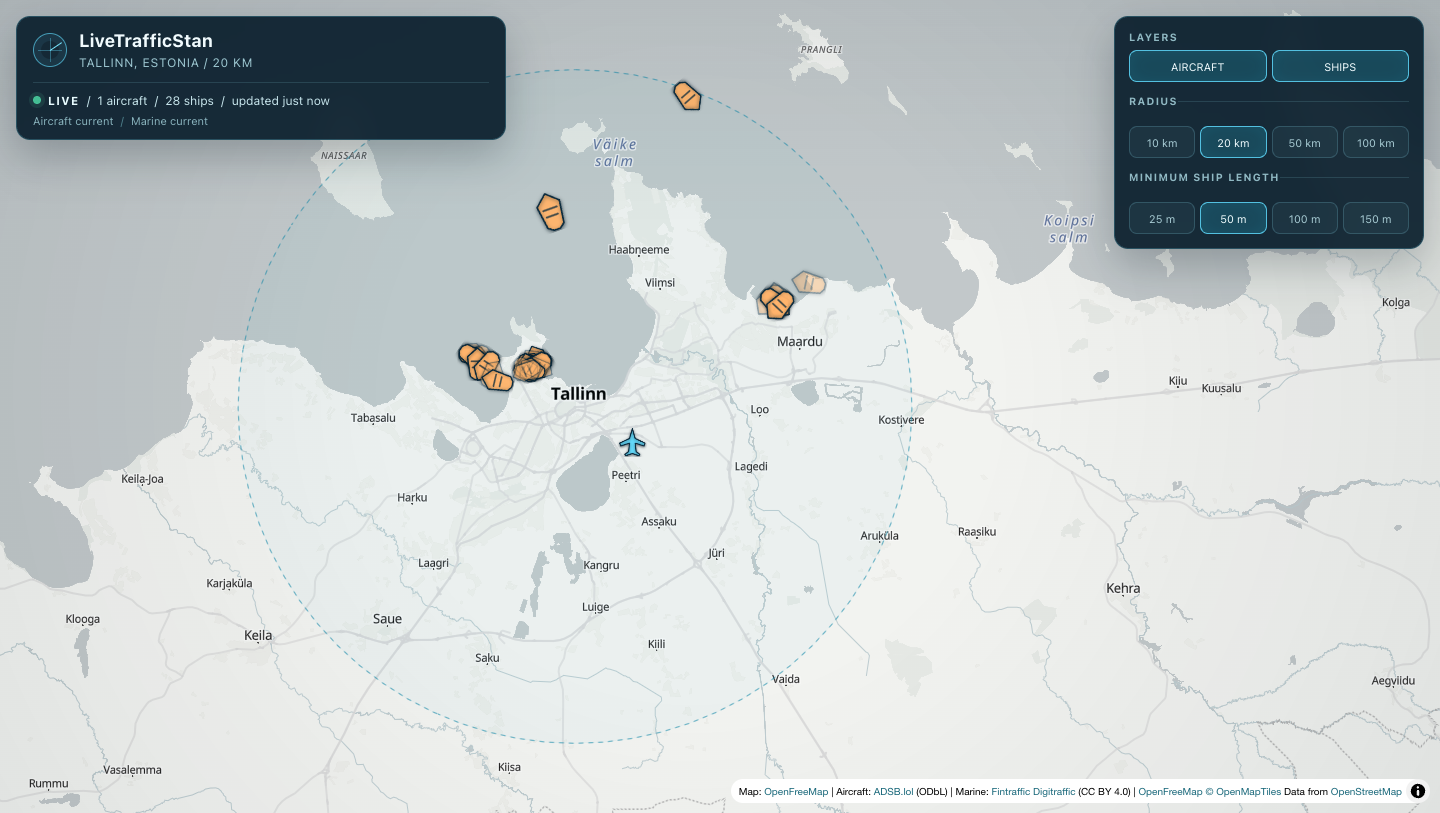
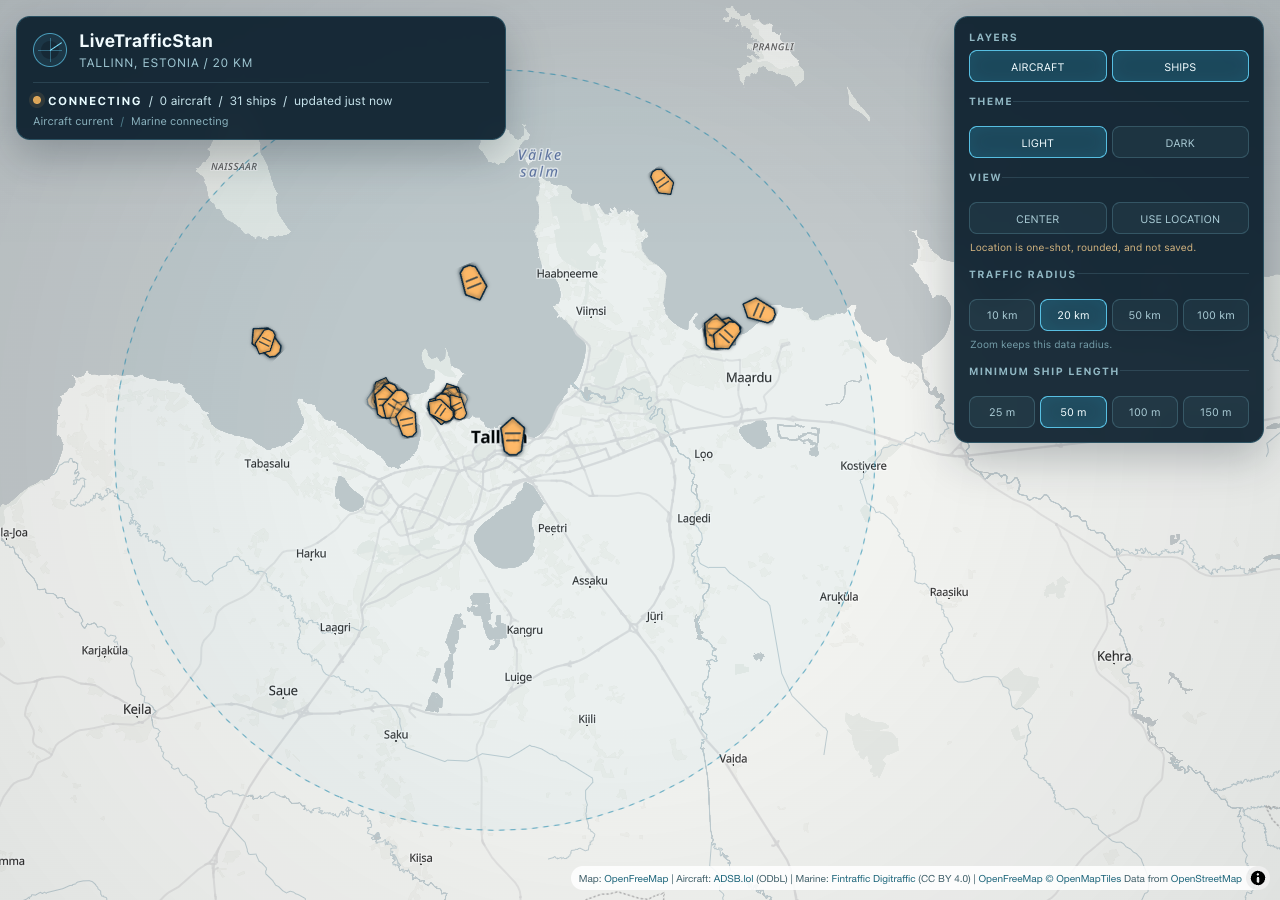
docs: describe V1.1 theme behavior

diff --git a/README.md b/README.md
@@ -15,6 +15,8 @@ single React application, without accounts, a database, or persistent tracking.
   REST initialization and MQTT over secure WebSockets.
 - OpenStreetMap-derived vector maps from
   [OpenFreeMap](https://openfreemap.org/), rendered with MapLibre GL JS.
+- Explicit Light and Dark themes that persist locally and switch the base map
+  without recreating MapLibre or resetting live traffic state.
 - Configurable 10, 20, 50, and 100 km Tallinn-centered radii.
 - Automatic traffic-area changes after a settled pan, while zoom remains
   visual and the selected radius remains the explicit coverage boundary.
@@ -79,6 +81,11 @@ separate state. Settled pans replace the latest desired provider center without
 adding aircraft requests beyond the 20-second cadence. Marine center changes
 reuse and refilter the global MQTT cache rather than reconnecting.
 
+Light/Dark changes use `map.setStyle` on that same MapLibre instance. An
+idempotent installer restores traffic images, sources, layers, current data,
+visibility, radius, and trail after each style load while preserving camera,
+selection, provider state, and connections.
+
 See [Architecture](docs/architecture.md) for component boundaries, data flow,
 failure isolation, rendering, and deployment details.
 
@@ -94,6 +101,7 @@ available for:
 | `VITE_CENTER_LONGITUDE` | `24.7536` |
 | `VITE_CENTER_LABEL` | `Tallinn, Estonia` |
 | `VITE_MAP_STYLE_URL` | `https://tiles.openfreemap.org/styles/positron` |
+| `VITE_MAP_DARK_STYLE_URL` | `https://tiles.openfreemap.org/styles/dark` |
 | `VITE_AIRCRAFT_ENDPOINT` | `/api/aircraft` |
 | `VITE_MARINE_REST_ENDPOINT` | `https://meri.digitraffic.fi` |
 | `VITE_MARINE_MQTT_ENDPOINT` | `wss://meri.digitraffic.fi:443/mqtt` |
@@ -141,6 +149,8 @@ provider attribution when implementing a deployment adapter.
   object.
 - Browser location is one-shot, rounded, and session-only; it is not continuous
   tracking and exact coordinates are not persisted.
+- Theme preference is limited to explicit Light/Dark selection; there is no
+  automatic system-theme mode.
 - V1.1 has no location search, route enrichment, playback, weather overlays,
   accounts, saved center preferences, or offline mode.
 

diff --git a/docs/configuration.md b/docs/configuration.md
@@ -15,6 +15,7 @@ cp .env.example .env.local
 | `VITE_CENTER_LONGITUDE` | `24.7536` | Finite number from -180 through 180 |
 | `VITE_CENTER_LABEL` | `Tallinn, Estonia` | Non-empty display label; blank uses the default |
 | `VITE_MAP_STYLE_URL` | `https://tiles.openfreemap.org/styles/positron` | HTTPS URL or root-relative path |
+| `VITE_MAP_DARK_STYLE_URL` | `https://tiles.openfreemap.org/styles/dark` | HTTPS URL or root-relative path |
 | `VITE_AIRCRAFT_ENDPOINT` | `/api/aircraft` | HTTPS URL or root-relative path |
 | `VITE_MARINE_REST_ENDPOINT` | `https://meri.digitraffic.fi` | HTTPS URL or root-relative path |
 | `VITE_MARINE_MQTT_ENDPOINT` | `wss://meri.digitraffic.fi:443/mqtt` | Secure WebSocket URL or root-relative path |
@@ -104,9 +105,10 @@ MapLibre's module worker is explicitly bundled through Vite in
 `npm run dev` and `npm run preview`; loading the style JSON alone is not proof
 that vector tiles are being parsed.
 
-V1.1 retains `VITE_MAP_STYLE_URL` as the Light style override and adds a
-separate HTTPS Dark style override. A missing preference or invalid stored
-value selects Light. Theme storage contains only `light` or `dark`; map center
+`VITE_MAP_STYLE_URL` configures the Light style and
+`VITE_MAP_DARK_STYLE_URL` configures the Dark style. A missing preference,
+invalid stored value, or unavailable storage selects Light. Theme storage uses
+the `livetrafficstan.theme` key and contains only `light` or `dark`; map center
 coordinates are never stored.
 
 The accepted V1.1 behavioral configuration keeps:
@@ -122,8 +124,7 @@ The accepted V1.1 behavioral configuration keeps:
 | Geolocation mode | One-shot, permission-aware, session-only |
 
 Navigation timing and privacy values are centralized in
-`src/config/appConfig.ts`. The dark-theme feature pull request will add its
-separate style override to the environment table.
+`src/config/appConfig.ts`.
 
 ## Marine endpoints
 

diff --git a/docs/troubleshooting.md b/docs/troubleshooting.md
@@ -20,11 +20,17 @@ If the worker loads, verify that the configured style and its tiles allow CORS,
 and that the browser supports WebGL2. A style JSON response by itself does not
 prove that vector tiles rendered.
 
-During V1.1 theme work, also inspect `style.load` handling. `map.setStyle`
-removes repository-owned images, sources, and layers; the application must
-reinstall them after every style load. Duplicate-source errors indicate that
-the installer is not idempotent. A base map with no traffic/radius after a
-theme change indicates that rehydration did not restore current source data.
+When a theme switch leaves the map blank, inspect `style.load` handling.
+`map.setStyle` removes repository-owned images, sources, and layers; the
+application reinstalls them after every style load. Duplicate-source errors
+indicate that the installer is not idempotent. A base map with no
+traffic/radius after a theme change indicates that rehydration did not restore
+current source data.
+
+If the application theme changes but the base map does not, verify both
+`VITE_MAP_STYLE_URL` and `VITE_MAP_DARK_STYLE_URL`, then restart Vite after
+editing `.env.local`. Invalid saved values fall back to Light. To reset a valid
+choice, remove `livetrafficstan.theme` from the site's local storage.
 
 ## Aircraft shows unavailable
 

diff --git a/docs/architecture.md b/docs/architecture.md
@@ -164,11 +164,12 @@ configured 20-second cadence. The marine provider updates its filter and emits
 matching cached MQTT records immediately while reusing its client and
 throttling radius REST refreshes.
 
-## V1.1 target theme lifecycle
+## Theme lifecycle
 
 Application colors are CSS custom properties selected by a validated
-`light | dark` preference. The map uses the corresponding configured
-OpenFreeMap style.
+`light | dark` preference stored under `livetrafficstan.theme`. Missing,
+invalid, or unavailable storage selects Light. The map uses the corresponding
+configured OpenFreeMap style.
 
 Theme changes call `map.setStyle` on the existing instance. An idempotent
 installer runs after `style.load` to restore repository-owned images, GeoJSON
@@ -176,6 +177,3 @@ sources, layers, current data, visibility, radius, and selected trail.
 Interaction listeners remain registered once, and a style revision prevents a
 late obsolete load from winning. Provider hooks, React selection/history, and
 camera state do not restart.
-
-The theme lifecycle remains the accepted target for the following dark-theme
-feature pull request; the navigation boundary above is implemented.

diff --git a/docs/decisions.md b/docs/decisions.md
@@ -94,12 +94,12 @@ tracking is outside scope.
 
 ## Explicit persisted light and dark themes
 
-The current Positron presentation remains the default Light theme. V1.1 adds an
+The Positron presentation remains the default Light theme. V1.1 provides an
 explicit Dark choice backed by the OpenFreeMap dark style and CSS custom
 properties. Only the selected theme is persisted.
 
 MapLibre remains a single instance. Because `map.setStyle` removes custom
-style-owned state, the map layer installer must restore traffic images,
+style-owned state, the map layer installer restores traffic images,
 sources, layers, data, visibility, radius, and trail after every `style.load`
 without changing camera, selection, provider state, or connections.
 

diff --git a/docs/development-and-testing.md b/docs/development-and-testing.md
@@ -67,7 +67,7 @@ Live provider availability, WebSocket behavior, WebGL rendering, and CORS/proxy
 configuration require browser smoke testing because unit fixtures cannot prove
 those external contracts.
 
-V1.1 feature tests must also cover:
+V1.1 tests also cover:
 
 - latest-query coalescing and a minimum 20-second aircraft request-start gap;
 - obsolete request cancellation/result rejection and rate-limit backoff;
